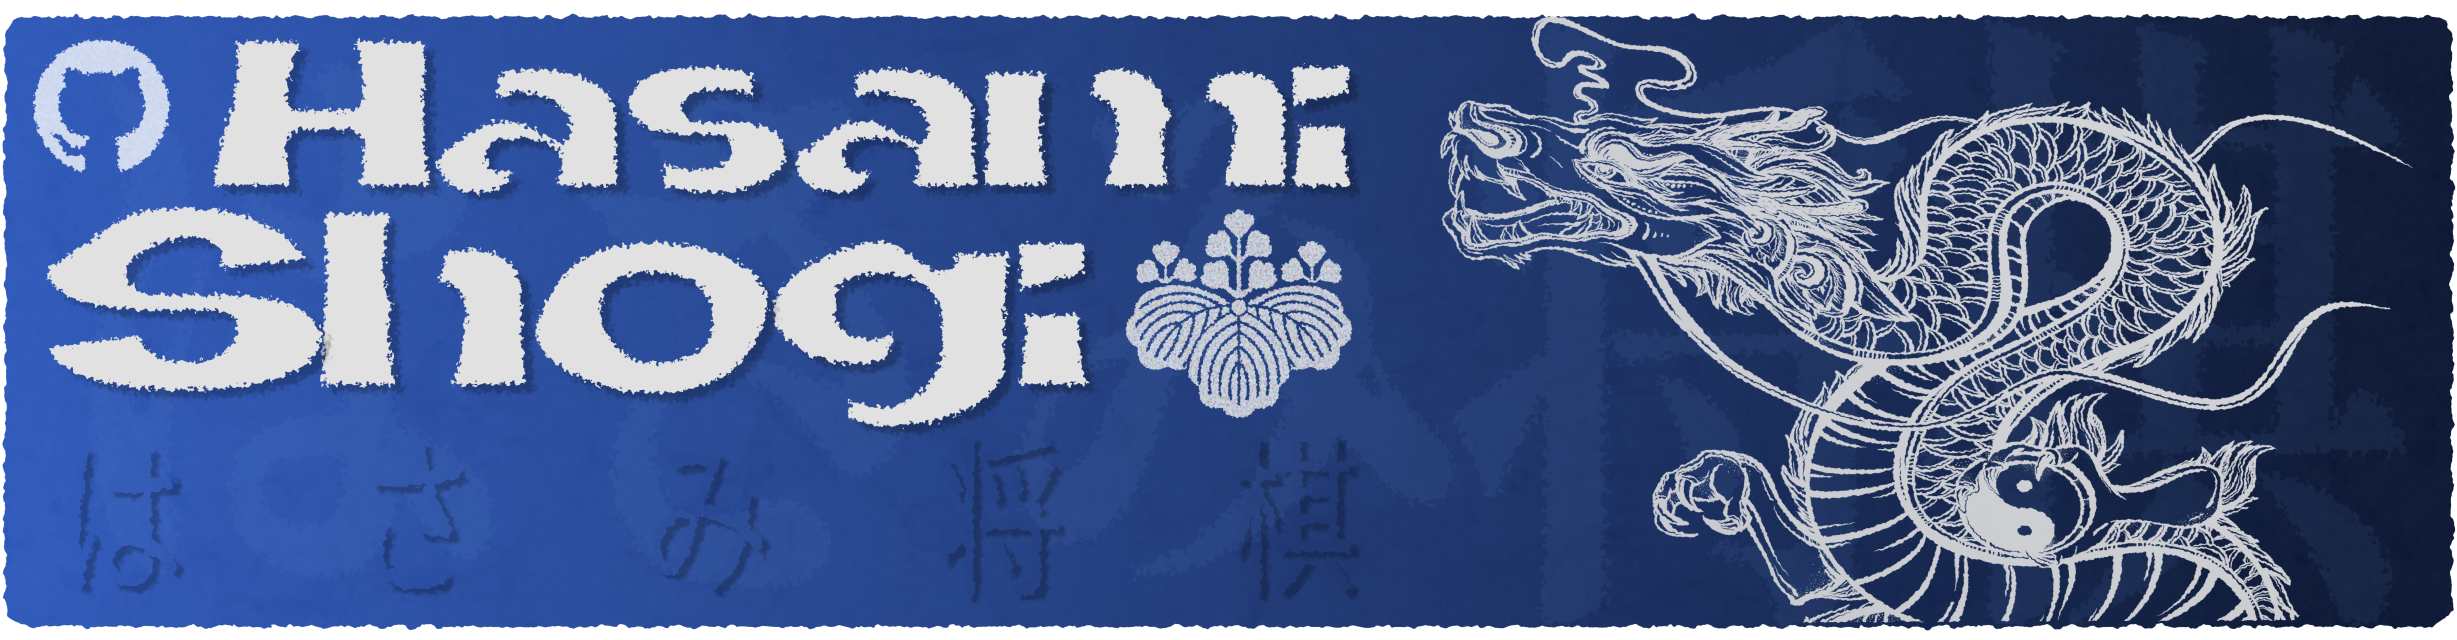
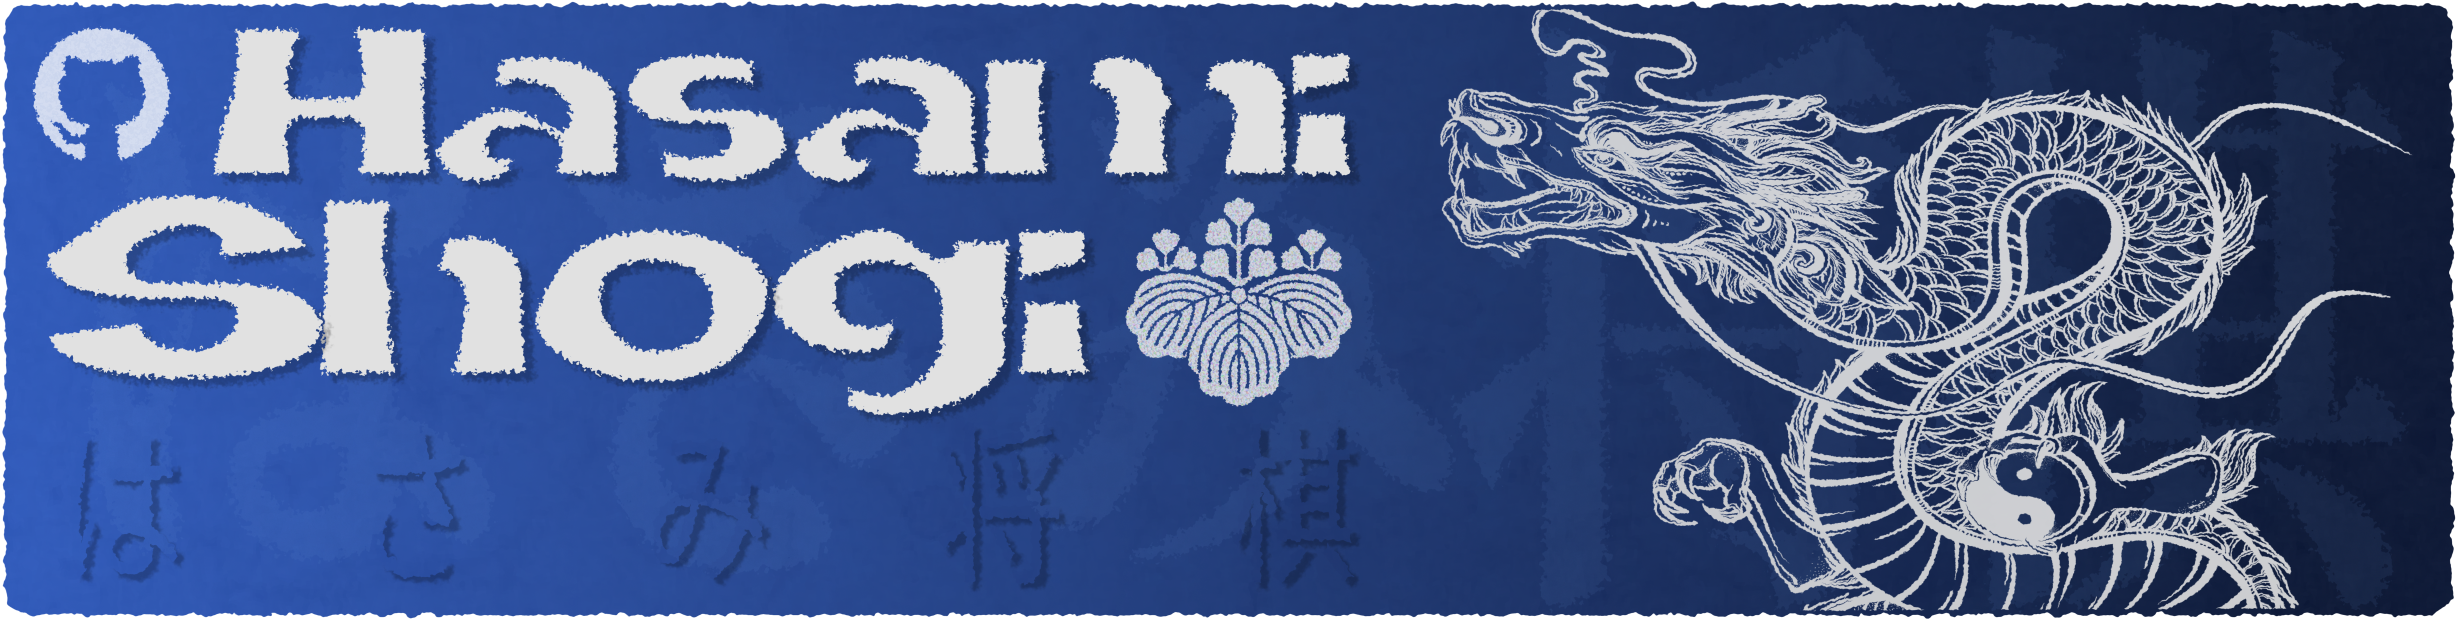
update readme

diff --git a/README.md b/README.md
@@ -1,4 +1,4 @@
-<img width="2457" height="640" alt="hasami_shogi_image_banner" src="https://github.com/user-attachments/assets/aa8e0788-b424-4191-97b8-07be31017f24" />
+<img width="2457" height="621" alt="hasami_shogi_image_banner" src="https://github.com/user-attachments/assets/c13532ba-658e-4d7c-bac7-1dd6f91cdd20" />
 
 ## Overview
 
